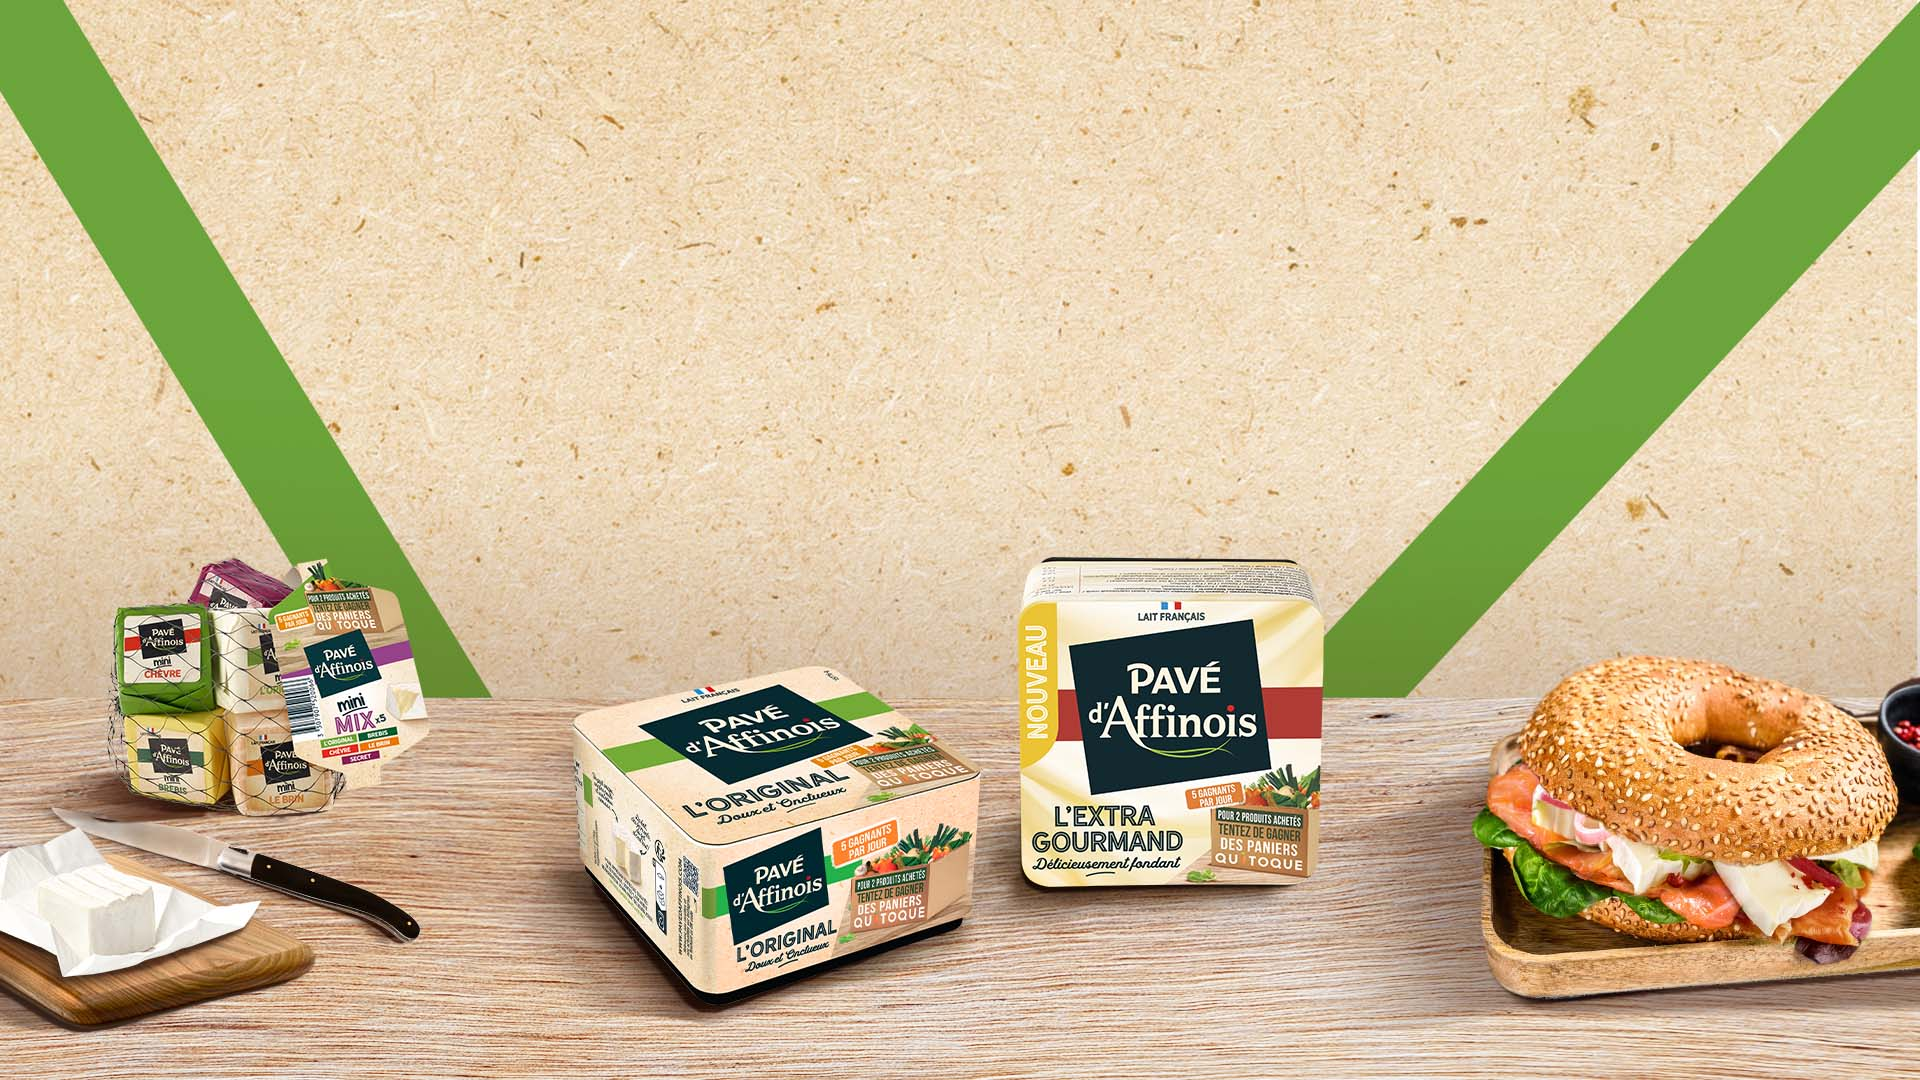
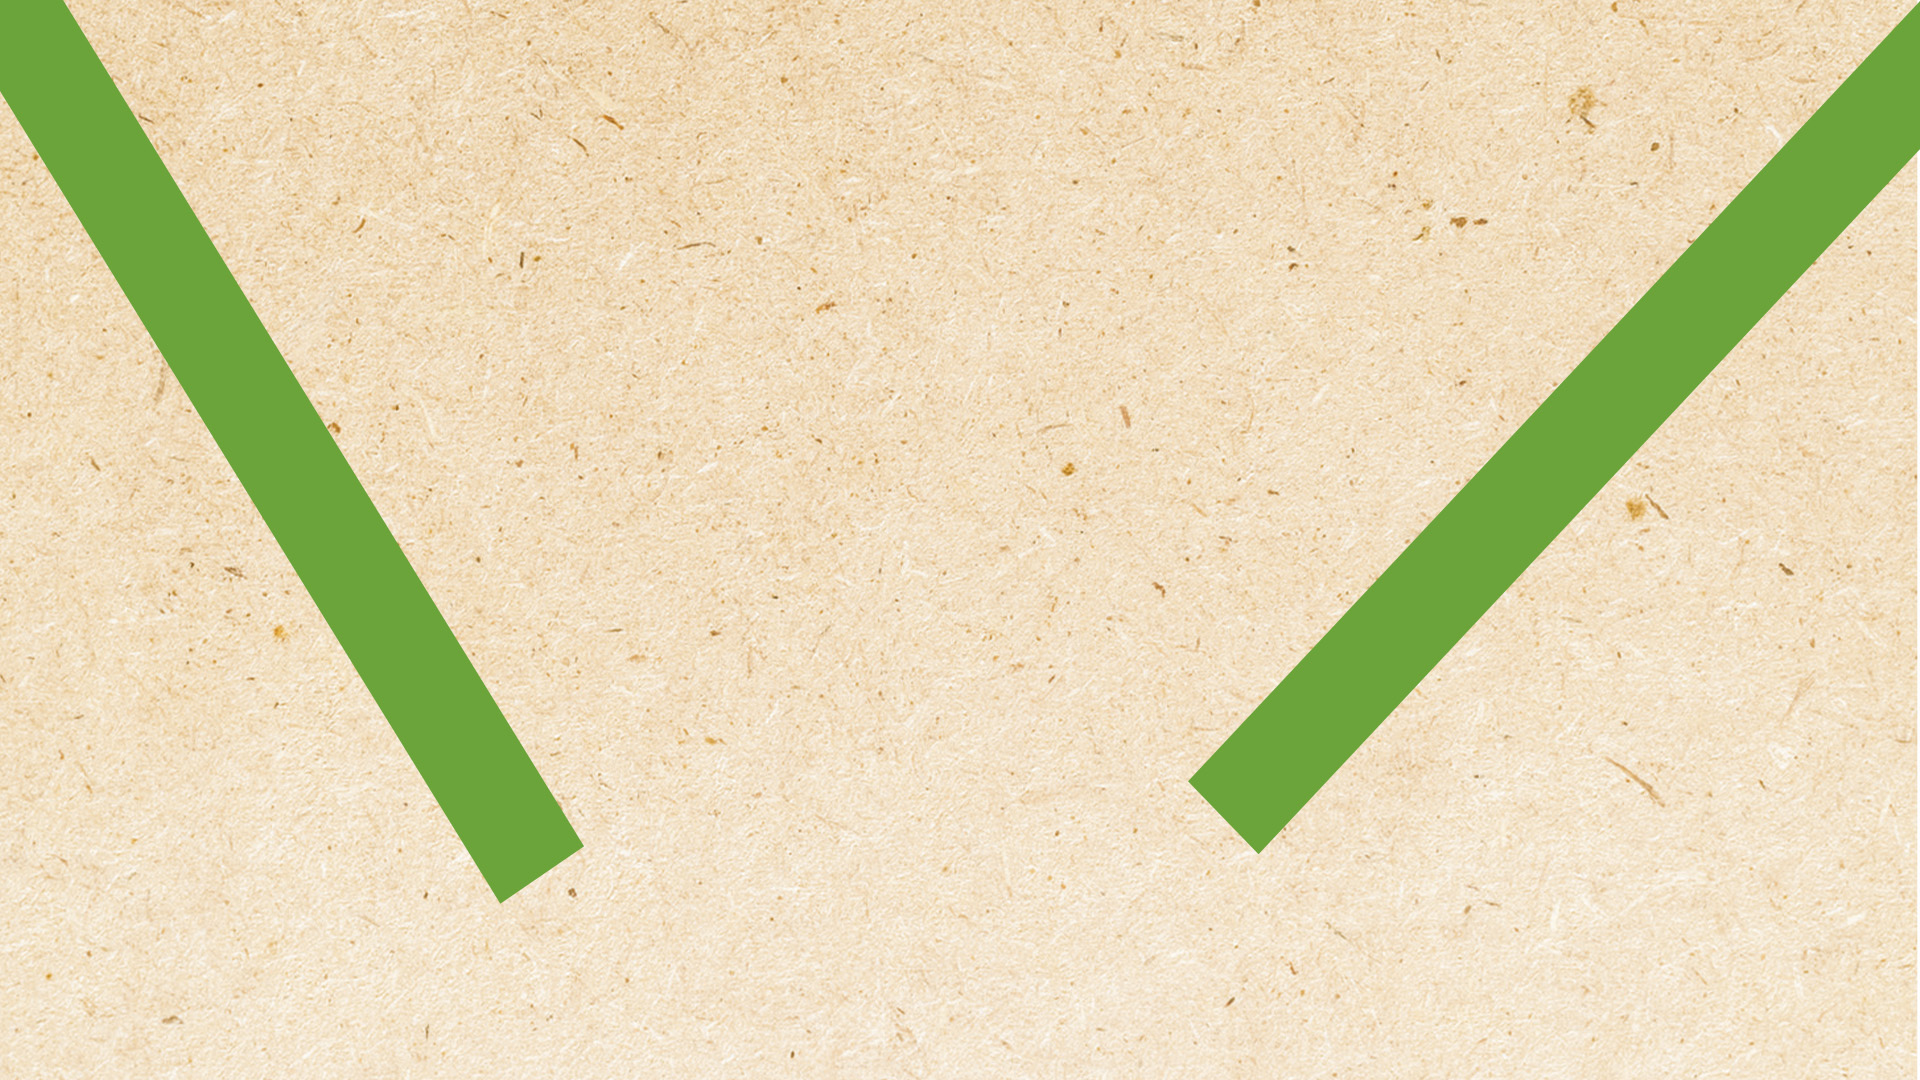
fix background reponsive

diff --git a/css/style.css b/css/style.css
@@ -7,19 +7,19 @@ body {
   font-weight: 400;
   color: #17383e;
   background-size: cover;
-  background-position: center bottom;
+  background-position: center top;
   background-repeat: no-repeat;
   display: flex;
   flex-direction: column;
-  background-image: url("../assets/imgs/bg-home.jpg");
-}
-body.bg-etapes {
-  background-image: url("../assets/imgs/bg-etapes.jpg");
-}
-body.bg-confirmation {
-  background-image: url("../assets/imgs/bg-confirmation-mobile.jpg");
+  background-image: url("../assets/imgs/bg-mobile.jpg");
 }
 @media (min-width: 576px) {
+  body {
+    background-image: url("../assets/imgs/bg-home.jpg");
+  }
+  body.bg-etapes {
+    background-image: url("../assets/imgs/bg-etapes.jpg");
+  }
   body.bg-confirmation {
     background-image: url("../assets/imgs/bg-confirmation.jpg");
   }
@@ -194,6 +194,7 @@ footer {
 
 .confirmation {
   text-align: center;
+  justify-content: space-between;
 }
 .confirmation h1 {
   font-size: 30px;
@@ -203,4 +204,9 @@ footer {
 }
 .confirmation h1 b:first-child {
   font-size: 40px;
+}
+@media (min-width: 576px) {
+  .confirmation img {
+    margin-top: -80px;
+  }
 }

diff --git a/sass/global/_base.scss b/sass/global/_base.scss
@@ -6,17 +6,17 @@ body {
   font-weight: 400;
   color: $black;
   background-size: cover;
-  background-position: center bottom;
+  background-position: center top;
   background-repeat: no-repeat;
   display: flex;
   flex-direction: column;
-  background-image: url("../assets/imgs/bg-home.jpg");
-  &.bg-etapes {
-    background-image: url("../assets/imgs/bg-etapes.jpg");
-  }
-  &.bg-confirmation {
-    background-image: url("../assets/imgs/bg-confirmation-mobile.jpg");
-    @include media-breakpoint-up($sm) {
+  background-image: url("../assets/imgs/bg-mobile.jpg");
+  @include media-breakpoint-up($sm) {
+    background-image: url("../assets/imgs/bg-home.jpg");
+    &.bg-etapes {
+      background-image: url("../assets/imgs/bg-etapes.jpg");
+    }
+    &.bg-confirmation {
       background-image: url("../assets/imgs/bg-confirmation.jpg");
     }
   }

diff --git a/sass/pages/_etapes.scss b/sass/pages/_etapes.scss
@@ -32,6 +32,7 @@
 
 .confirmation {
   text-align: center;
+  justify-content: space-between;
   h1 {
     font-size: 30px;
     b {
@@ -39,6 +40,11 @@
       &:first-child {
         font-size: 40px;
       }
+    }
+  }
+  img {
+    @include media-breakpoint-up($sm) {
+      margin-top: -80px;
     }
   }
 }

diff --git a/confirmation.php b/confirmation.php
@@ -7,9 +7,9 @@ includeHeader('bg-confirmation')
 ?>
 
 <main class="confirmation">
-  <div class="container">
-    <h1><b>Votre participation</b><br>a bien été prise en compte</h1>
-  </div>
+  <h1><b>Votre participation</b><br>a bien été prise en compte</h1>
+  <img class="img-fluid d-none d-sm-block" src="assets/imgs/confirmation.png" alt="">
+  <img class="img-fluid d-sm-none" src="assets/imgs/original.png" alt="">
 </main>
 
 <?php include 'partials/footer.php'; ?>
